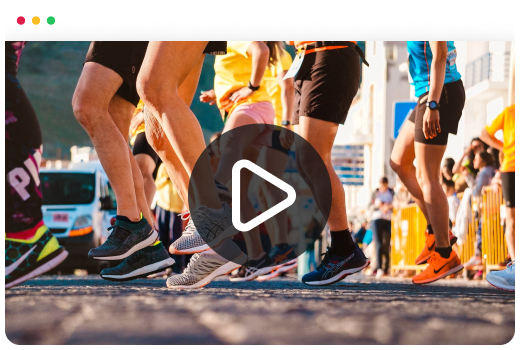
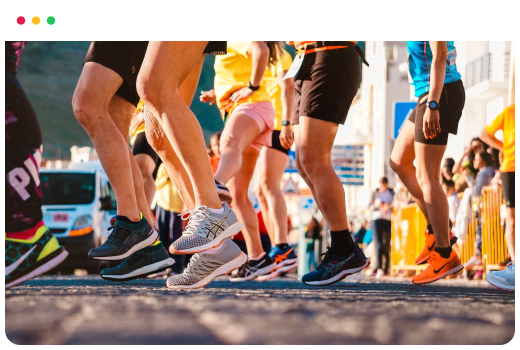
Section fix

Changed region(s): [[0.3385, 0.3429, 0.6462, 0.7714]]

diff --git a/app/components/joinUsSection.tsx b/app/components/joinUsSection.tsx
@@ -3,13 +3,14 @@ import ListItem from "./ui/listItem";
 import Image from "next/image";
 import Link from "next/link";
 import videoImg from '../../public/images/video-img.webp'
+import play from '../../public/images/icons/play.svg'
 
 export default function JoinUsSection() {
     return(
-        <section className="max-w-[1280px] mx-auto pt-4 px-4 pb-14 md:py-40 md:px-0">
-            <div className="join-us bg-white flex flex-col md:flex-row gap-y-8 md:gap-x-[111px] rounded-[30px] items-center py-8 px-4 md:px-20 md:py-[73px]">
+        <section className="max-w-[1280px] mx-auto pt-4 px-4 pb-14 lg:py-40 lg:px-0">
+            <div className="join-us bg-white flex flex-col lg:flex-row gap-y-8 lg:gap-x-[111px] rounded-[30px] items-center py-8 px-4 lg:px-20 lg:py-[73px]">
                 <div className="flex flex-col gap-y-6">
-                    <h2 className="font-bold text-[32px] leading-[35px] text-center md:text-left md:text-[56px] md:leading-[61px] text-[#0F172A]">Why join us</h2>
+                    <h2 className="font-bold text-[32px] leading-[35px] text-center lg:text-left lg:text-[56px] lg:leading-[61px] text-[#0F172A]">Why join us</h2>
                     <ListContainer>
                         <ListItem title="Est et in pharetra magna adipiscing ornare aliquam."/>
                         <ListItem title="Tellus arcu sed consequat ac velit ut eu blandit."/>
@@ -21,12 +22,15 @@ export default function JoinUsSection() {
                 </div>
                 <div className="relative">
                     <Image src={videoImg} alt="video-img" className="z-30 custom-shadow rounded-[18px] cursor-pointer"/>
-                    <div className="w-[411px] h-[135px] md:w-[666px] md:h-[217px] z-10 bg-[#FDE68A] absolute -rotate-45  right-[-14px] md:right-[unset] md:left-[-95px] bottom-[30px] md:top-0 md:bottom-0 my-auto"></div>
-                    <div className="md:w-[90px] md:h-[90px] w-[55px] h-[55px] left-[-22px] top-[25px] opacity-75 md:top-[25px] md:left-[-20px] rounded-[30px] absolute bg-[#B45309]"></div>
-                    <div className="md:w-[218px] md:h-[218px] w-[135px] h-[135px] rounded-[50px] opacity-75 absolute bg-[#BE185D] z-[2] bottom-[-59px] right-[-55px] md:right-[-118px] md:bottom-[-109px]"></div>
-                    <div className="absolute w-[46px] h-[46px]  md:w-[74px] md:h-[74px] rounded-[30px] opacity-75 bg-[#A21CAF] md:bottom-[-44px] md:right-[63px] bottom-[-19px] right-[56px]"></div>
-                    <div className="absolute rounded-[50px] w-[50px] h-[50px] md:w-[86px] md:h-[86px] bg-[#15803D] bottom-[-18px] left-[43px] md:bottom-[-36px] md:left-[70px] opacity-75 z-50"></div>
-                    <div className="absolute w-[37px] h-[37px] md:w-[60px] md:h-[60px] rounded-[50px] bg-[#0369A1] z-50 md:top-[-28px] md:right-[23px] top-[-7px] right-[32px] -translate-y-full opacity-75"></div>
+                    <div className="absolute z-40 w-[144px] h-[144px] left-0 right-0 top-0 bottom-0 m-auto rounded-full bg-[#121619BF] flex items-center justify-center">
+                        <Image src={play} alt="play" className="cursor-pointer relative right-[-5px]"/>
+                    </div>
+                    <div className="custom-arrowc w-[411px] h-[135px] lg:w-[666px] lg:h-[217px] z-10 bg-[#FDE68A] absolute -rotate-45  right-[-14px] lg:right-[unset] lg:left-[-95px] bottom-[30px] lg:top-0 lg:bottom-0 my-auto"></div>
+                    <div className="lg:w-[90px] lg:h-[90px] w-[55px] h-[55px] left-[-22px] top-[25px] opacity-75 lg:top-[25px] lg:left-[-20px] rounded-[30px] absolute bg-[#B45309]"></div>
+                    <div className="lg:w-[218px] lg:h-[218px] w-[135px] h-[135px] rounded-[50px] opacity-75 absolute bg-[#BE185D] z-[2] bottom-[-59px] right-[-55px] lg:right-[-118px] lg:bottom-[-109px]"></div>
+                    <div className="absolute w-[46px] h-[46px]  lg:w-[74px] lg:h-[74px] rounded-[30px] opacity-75 bg-[#A21CAF] lg:bottom-[-44px] lg:right-[63px] bottom-[-19px] right-[56px]"></div>
+                    <div className="absolute rounded-[50px] w-[50px] h-[50px] lg:w-[86px] lg:h-[86px] bg-[#15803D] bottom-[-18px] left-[43px] lg:bottom-[-36px] lg:left-[70px] opacity-75 z-50"></div>
+                    <div className="absolute w-[37px] h-[37px] lg:w-[60px] lg:h-[60px] rounded-[50px] bg-[#0369A1] z-50 lg:top-[-28px] lg:right-[23px] top-[-7px] right-[32px] -translate-y-full opacity-75"></div>
                 </div>
             </div>
         </section>

diff --git a/app/globals.css b/app/globals.css
@@ -39,6 +39,7 @@ body {
   left: 0;
   box-shadow: 0px 0px 15px 0px #FFFFFF12;
   border-radius: 10px;
+  z-index: -1;
 }
 .join-us{
   box-shadow: 0px 20px 25px -5px #0000001A;
@@ -58,6 +59,38 @@ body {
 .custom-shadow{
   box-shadow: 0px 25px 50px -12px #00000040;
   position: relative;
+}
+.custom-arrow{
+  z-index: 0;
+}
+.custom-arrowc::after{
+  content: "";
+  width: 0;
+  height: 0;
+  border-style: solid;
+  border-width: 0 0 90px 90px;
+  border-color: transparent transparent #fde68a transparent;
+  position: absolute;
+  bottom: 0;
+  left: 0;
+  background: #fde589;
+  transform: rotate(270deg);
+  box-shadow: 0px 0px 10px 0px #00000012, 0px 25px 50px -12px #00000040;
+  z-index: -1;
+}
+.custom-arrowc::before{
+  content: "";
+  width: 0;
+  height: 0;
+  border-style: solid;
+  border-width: 0 0 150px 150px;
+  border-color: transparent transparent #fde68a transparent;
+  position: absolute;
+  bottom: 0;
+  left: 0;
+  background: #fde589;
+  transform: rotate(270deg);
+  z-index: 3;
 }
 .custom-shadow:before{
   content: "";
@@ -150,6 +183,12 @@ body {
   .embla__slide {
     flex: 0 0 83%;
     min-width: 0;
+  }
+  .embla__slide {
+    padding-left:16px;
+  }
+  .embla__container {
+    margin-left: calc(16px * -1);
   }
 }
 /* Embla carousel styles */

diff --git a/app/components/tabsSection.tsx b/app/components/tabsSection.tsx
@@ -123,9 +123,9 @@ export default function TabsSection() {
                     <h2 className="font-bold text-[32px] leading-[35px] md:text-[56px] md:leading-[62px] text-center md:text-left text-[#0F172A]">
                         Grow your collection
                     </h2>
-                    <p className="mb-0 font-normal text-[#0F172A] text-center md:text-left text-base md:text-[18px] md:leading-[29px] ">
+                    <p className="mb-0 font-normal text-[#0F172A] max-w-[1200px] text-center md:text-left text-base md:text-[18px] md:leading-[29px] ">
                         Enim neque massa porta adipiscing elit. Sem libero id faucibus nibh amet dictum pellentesque sed. Eu non turpis risus odio sapien, fames sit rhoncus.
-                        <br />Nec magna sed interdum sit purus tellus. Et volutpat proin neque placerat at bibendum quam tellus.
+                        Nec magna sed interdum sit purus tellus. Et volutpat proin neque placerat at bibendum quam tellus.
                     </p>
                 </div>
                 <TabsContainer>

diff --git a/app/components/ui/subCard.tsx b/app/components/ui/subCard.tsx
@@ -1,7 +1,7 @@
 import Image from "next/image"
 export default function SubCard({image,title,desc, width, height}: {image:string,title:string,desc:string, width:number, height:number}) {
     return (
-        <div className="w-full md:w-1/3 flex flex-col items-center gap-y-4">
+        <div className="w-full md:w-1/3 flex flex-col items-center md:items-start gap-y-4">
             <Image className="object-cover" src={image} width={width} height={height} alt="Icons - Collers"/>
             <h3 className="font-medium text-center md:text-left text-[20px] leading-[22px] text-[#0F172A]">{title}</h3>
             <p className="font-normal text-center md:text-left leading-[24px] text-[18px] text-[#0F172A] md:leading-[28px]">{desc}</p>

diff --git a/app/components/subHeroSection.tsx b/app/components/subHeroSection.tsx
@@ -42,7 +42,7 @@ export default function SubHeroSection(){
         <section className=" bg-[#FEF3C7] md:bg-transparent py-12 px-4 md:px-0 md:py-20 relative">
             <div className='max-w-[1280px] mx-auto flex flex-col gap-y-8 md:gap-x-20 md:flex-row'>
                 {items.map((item) => (
-                    <SubCard width={item.img_width} height={item.img_height} image={item.image} title={item.title} desc={item.desc}/>
+                    <SubCard key={item.title} width={item.img_width} height={item.img_height} image={item.image} title={item.title} desc={item.desc}/>
                 ))}
             </div>
             <Image className="absolute btm-rect bottom-0 z-[-1] right-0" src={subBtm} alt="sub-btm"/>

diff --git a/app/components/testimonialsSection.tsx b/app/components/testimonialsSection.tsx
@@ -154,9 +154,8 @@ export default function TestimonialsSection() {
                 <div className="embla__viewport" ref={emblaRef}>
                     <div className="embla__container">
                         {testimonials.map(testimonial => (
-                            <div className="embla__slide" key={testimonial.id }>
+                            <div  className="embla__slide" key={testimonial.id }>
                                 <CarouselItem
-                                key={ testimonial.id }
                                 brandImg={testimonial.img }
                                 desc={ testimonial.desc }
                                 personImg={ testimonial.person_img }

diff --git a/app/components/ui/productBox.tsx b/app/components/ui/productBox.tsx
@@ -7,7 +7,7 @@ export default function ProductBox({children, img, title, desc, alt, id}:
     return(
         <div className="w-full md:w-1/3 relative product-shadow z-10">
             <div className=" border-[1px] border-[#0F172A] rounded-[10px] overflow-hidden bg-[#0F172A]">
-                <Image src={img} alt={alt} width={394} height={220}/>
+                <Image className="object-cover w-full" src={img} alt={alt} width={394} height={220}/>
                 <div className="p-8 pb-0 flex flex-col gap-y-4">
                     <h6 className="leading-[26px] text-[24px] text-white font-bold">{title}</h6>
                     <p className="mb-0 font-normal text-white text-[18px]">

diff --git a/app/components/ui/listItem.tsx b/app/components/ui/listItem.tsx
@@ -3,7 +3,7 @@ import tickIcon from '../../../public/images/icons/tick-icon.svg'
 export default function ListItem({title}: {title:string}){
     return(
         <li className="flex items-start gap-x-[6px]">
-            <Image className="relative top-[5px]" src={tickIcon} alt="tick-icon"/>
+            <Image className="relative md:top-[5px]" src={tickIcon} alt="tick-icon"/>
             <p className="text-base text-wrap md:text-nowrap leading-[22px] font-normal md:text-[20px] md:leading-[36px] text-[#0F172A]">
                 {title}
             </p>                    

diff --git a/app/components/ui/carouselItem.tsx b/app/components/ui/carouselItem.tsx
@@ -14,7 +14,7 @@ interface CarouselItemProps {
 }
 export default function CarouselItem({brandImg, desc, personImg, personName, personTitle, imgWidth, imgHeight} : CarouselItemProps) {
     return(
-        <div className="p-6 md:p-8 card-shadow rounded-[20px] bg-white">
+        <div className="p-6 md:p-8 min-h-[296px] md:min-h-[430px] card-shadow rounded-[20px] bg-white">
             <div className="py-4">
                 <Image width={imgWidth} height={imgHeight} src={brandImg} alt="Brand logo"/>
             </div>
